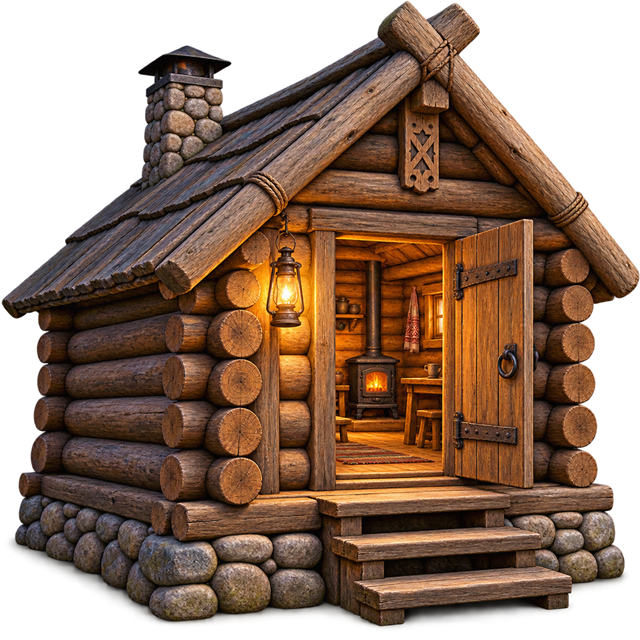
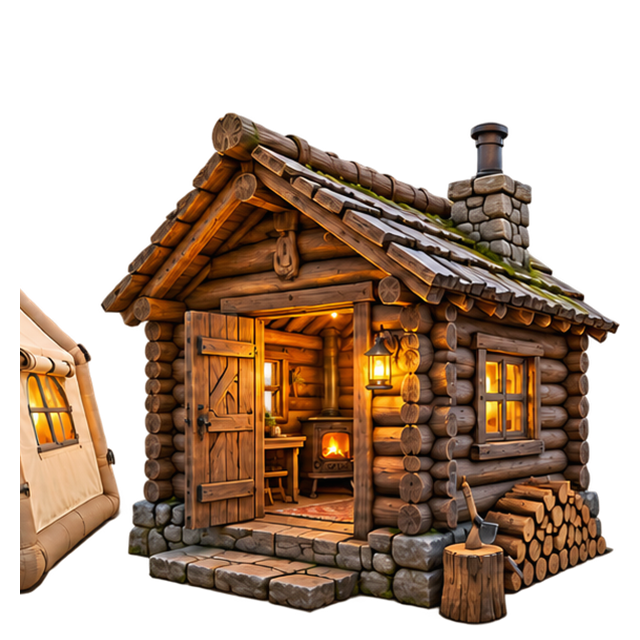
Обновить палатки и поправить расположение

diff --git a/frontend/src/components/game/CampYard.tsx b/frontend/src/components/game/CampYard.tsx
@@ -81,7 +81,7 @@ export function CampYard() {
 
   return <>
     <div aria-label="Предметы лагеря" className="pointer-events-none absolute inset-0 z-[5]">
-      {renderObject('tent', 'Палатка', <TentTree size={12} />, { left: '53%', top: '19%', width: '46%', height: '50%' })}
+      {renderObject('tent', 'Палатка', <TentTree size={12} />, { left: '55%', top: '16%', width: '44%', height: '50%' })}
       {renderObject('hearth', 'Костёр', <Flame size={12} />, { left: '37%', top: '51%', width: '29%', height: '23%' })}
       {renderObject('backpack', 'Рюкзак', <Backpack size={12} />, { left: '2%', top: '72%', width: '16%', height: '17%' })}
     </div>
